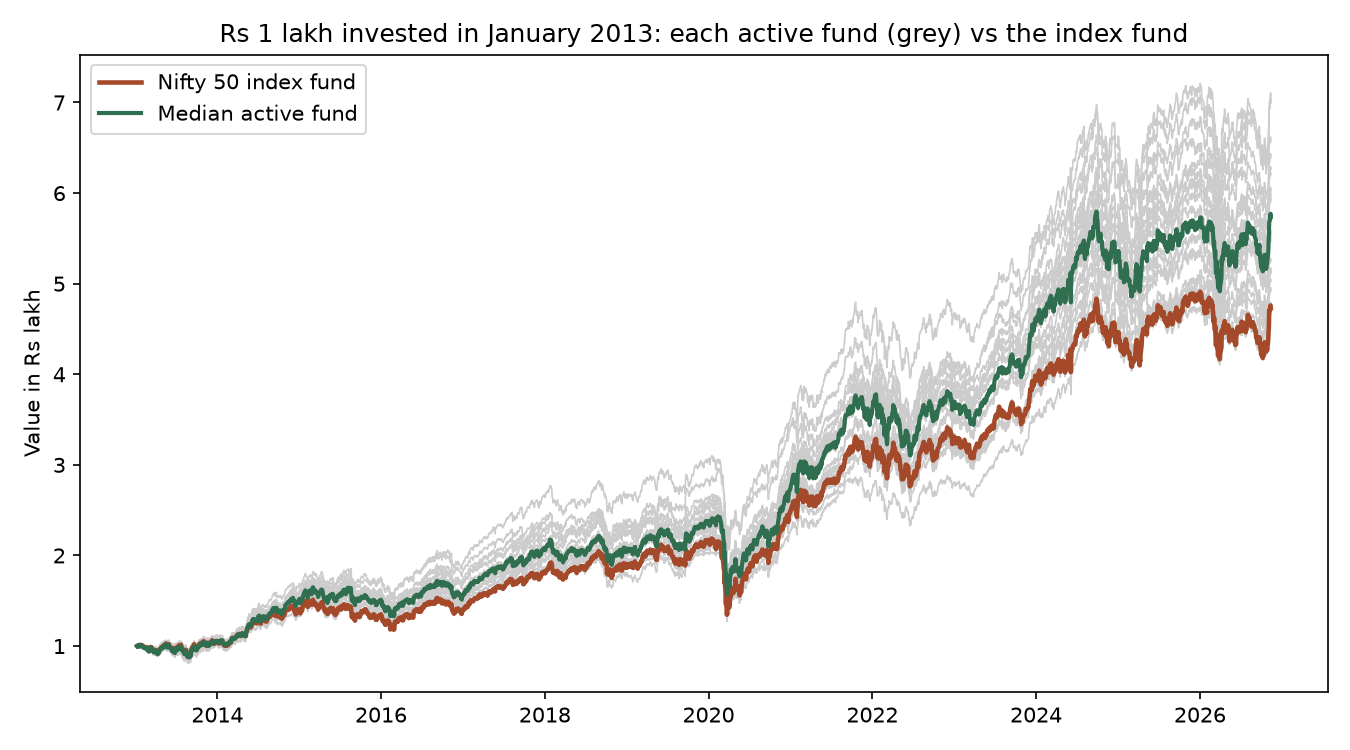
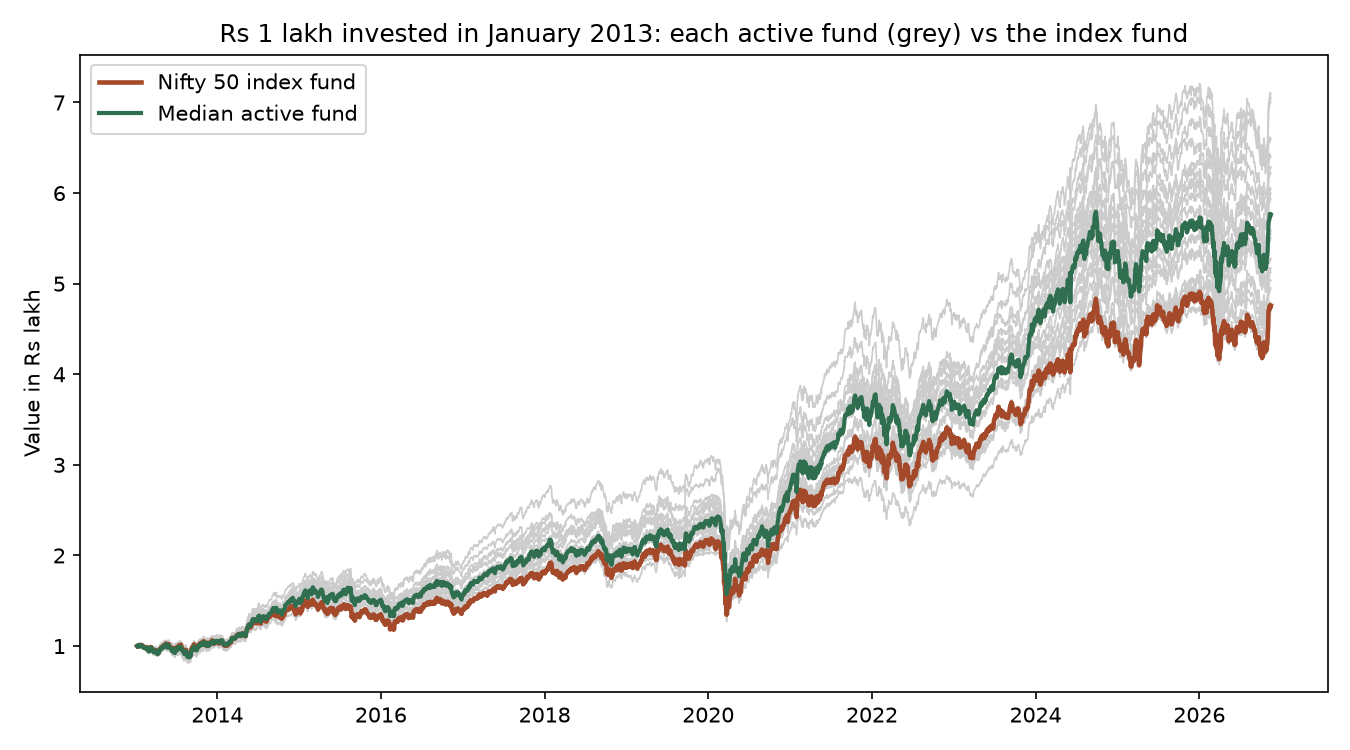
Data refresh: NAVs to 2026-11-17

diff --git a/README.md b/README.md
@@ -5,7 +5,7 @@
 **Short answer:** Over 2013–2026, yes: 19 of 20 surviving active large-cap funds beat the UTI Nifty 50 Index Fund. But it is **streaky**, and the full-period number flatters active funds because of **survivorship bias**. Active funds won almost every 3-year window up to 2018, then most of them *lost* to the index from 2019 to 2021, and they have been winning again since 2024.
 
 <!-- latest -->
-**Latest data: 13 Nov 2026.** Over 13.8 years, the Nifty 50 index fund returned 11.88% a year; 19 of 20 surviving active funds beat it. Right now, 100% of active funds are ahead of the index over the past 3 years.
+**Latest data: 16 Nov 2026.** Over 13.9 years, the Nifty 50 index fund returned 11.92% a year; 19 of 20 surviving active funds beat it. Right now, 100% of active funds are ahead of the index over the past 3 years.
 <!-- /latest -->
 
 ## Data
